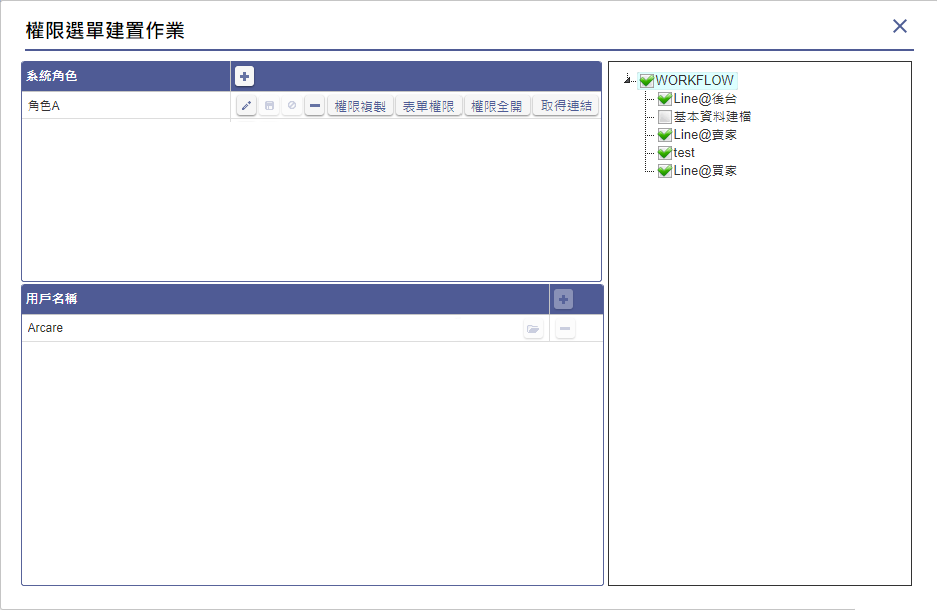
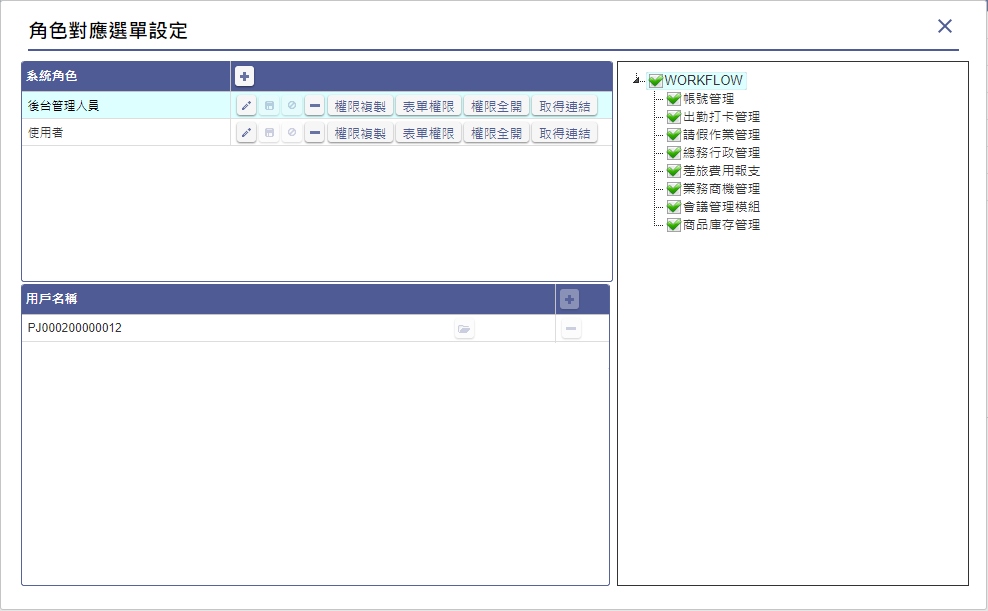
#9138 RTE_提供帳號自動生效  (SA文件)

Changed region(s): [[0.0, 0.0, 1.0, 1.0], [0.0309, 0.0311, 0.2166, 0.0623]]

diff --git a/8.10.2/UPDATE/ITEM_14/RTE/README.md b/8.10.2/UPDATE/ITEM_14/RTE/README.md
@@ -18,12 +18,12 @@
   ![作業流程]
 
 * 10月底修改，先異動下列畫面及規格
-  * 異動介面.選單權限建置作業
+  * 異動介面.角色對應選單設定
     * 新增按鈕.取得連結，開啟介面.取得連結
     * 異動按鈕.刪除，刪除角色時，須依 **系統+組織+角色** 將對應的 [取得連結][link_getRoleURL] 資料一併刪除
-    * 規格文件，請看: [選單權限建置作業][link_RoleOfPeopleSet]
+    * 規格文件，請看: [角色對應選單設定][link_RoleOfPeopleSet]
   * 新增介面.取得連結
-    * 由介面.[選單權限建置作業][link_RoleOfPeopleSet]，按鈕.取得連結，開啟本單
+    * 由介面.[角色對應選單設定][link_RoleOfPeopleSet]，按鈕.取得連結，開啟本單
     * 規格文件，請看: [取得連結][link_getRoleURL]
   * 異動介面.企業資料
     * 增加欄位.郵件驗證碼等待時間，預設: **300**秒，最小輸入值 **60**秒
@@ -36,11 +36,11 @@
       * 存在參數唯一號 且 連結生效 ，由系統自動建立申請帳號的資訊並生效
         * 預設給該帳號，參數唯一號指定的系統、組織，及角色權限
       * 不存在參數唯一號 或 (存在參數唯一號 且 連結失效)，僅建立申請帳號資訊，但帳號不生效
-    * 完整規格文件，請看 [帳號申請][link_applyaccount]
+    * 規格文件，請看 [帳號申請][link_applyaccount]
   * 異動介面.RTE登入畫面
     * 突顯申請新帳號的樣式 
     * 當瀏覽器的連結網址存在帳號生效參數設定的唯一號，即使Site系統服務介面.**其他參數**的欄位.**開放帳號申請**未勾選，畫面仍顯示**申請新帳號**的連結
-    * 完成整規格文件，請看[RTE登入畫面][link_login]
+    * 規格文件，請看[RTE登入畫面][link_login]
   * 異動介面.權限維護作業
     * 異動按鈕.刪除，刪除權限時，須依 **系統+組織+角色** 將對應的 [取得連結][link_getRoleURL] 資料一併刪除    
     * 異動按鈕.生效，權限生效時，須依 **系統+組織+角色** 將對應的 [取得連結][link_getRoleURL] 資料進行連結生效
@@ -55,7 +55,7 @@ ___
     * 在開放帳號申請設定中，增加下列欄位
       * 欄位.到期通知天數，預設帳號的系統使用期限到期前的第n天要通知使用者
       * 欄位.逾期可使用天數，預設帳號的系統使用期限到期後，仍可使用的天數
-    * 完整規格文件，請看: [其他參數][link_parameterothersetting]
+    * 規格文件，請看: [其他參數][link_parameterothersetting]
   * 新增介面.帳號生效參數查詢
     * 由Site系統服務的選單開啟
     * 可編修及瀏覽權限的角色: 企業管理員/系統管理員
@@ -63,7 +63,7 @@ ___
   * 新增介面.帳號生效參數設定
     * 由介面.帳號生效參數查詢，執行按鈕.新增，開啟本單
     * 可編修及瀏覽權限的角色: 企業管理員/系統管理員
-    * 完整規格文件，請看: [帳號生效參數設定][link_accounteffectparamsetting]      
+    * 規格文件，請看: [帳號生效參數設定][link_accounteffectparamsetting]      
   * 異動介面.帳號申請
     * 當瀏覽器的連結網址存在帳號生效參數設定的唯一號，預設帶入企業代號，並跳過介面.**請輸入企業名稱**
     * 增加發送Mail有效性驗證碼，由使用者回填驗證碼；Mail驗證碼要有效期，預設: 1分鐘，1分鐘後未回填，使用者須重新申請發送驗證碼
@@ -73,7 +73,7 @@ ___
         * 當有效期限=到期日，預設 帳號使用系統的**使用效期**為 **到期日**
         * 當有效期限=天數，預設 帳號使用該系統的**使用效期**為 **系統日期+天數**
       * 不存在參數唯一號 或 (存在參數唯一號 且 帳號生效方式=人工)，僅建立申請帳號資訊，但帳號不生效
-    * 完整規格文件，請看 [帳號申請][link_applyaccount]
+    * 規格文件，請看 [帳號申請][link_applyaccount]
   * 異動介面.帳號清單
     * 按鈕.生效，判斷若申請帳號是使用介面.**帳號生效參數設定**的連結URL建立的，則生效時，增加下列寫入資訊
         * 預設給該帳號，參數唯一號指定的系統、到期通知天數、逾期可使用天數、組織，及角色權限
@@ -83,7 +83,7 @@ ___
       * 欄位.使用效期，指定該帳號對應系統的有效期限
       * 欄位.到期通知天數，預帶介面.**其他參數**的**到期通知天數**
       * 欄位.逾期可使用天數，預帶介面.**其他參數**的**逾期可使用天數**
-    * 完整規格文件，請看 [帳號清單][link_accountindex]
+    * 規格文件，請看 [帳號清單][link_accountindex]
   * 異動介面.系統_使用者設定
     * 分頁: 依系統指定、依帳號指定，增加下列欄位
       * 欄位.使用效期，可指定該帳號對應系統的有效期限
@@ -99,7 +99,7 @@ ___
   * 新增介面.系統申請核准設定
     * 由介面.系統_使用系統申請查詢，執行按鈕.核准，開啟本單
     * 可編修及瀏覽權限的角色: 企業管理員/系統管理員
-    * 完整規格文件，請看: [系統申請核准設定][link_systemapplicationapproval]
+    * 規格文件，請看: [系統申請核准設定][link_systemapplicationapproval]
   * 異動介面.系統管理
     * 異動按鈕.刪除系統，刪除系統時，須依 **系統** 將對應的 [取得連結][link_getRoleURL] 資料一併刪除
     * 異動按鈕.刪除組織，刪除組織時，須依 **系統+組織** 將對應的 [取得連結][link_getRoleURL] 資料一併刪除
@@ -117,6 +117,11 @@ ___
       * 檢查帳號下各系統的 **使用效期** 大於 **今天的日期** 且 **已超過逾期可使用天數**，發送系統使用效期已到期通知至帳號的郵件信箱
     
 * 系統(System)
+  * 異動介面.RTE登入畫面
+    * 當瀏覽器的連結網址存在帳號生效參數設定的唯一號，帳號登入後，增加下列判斷
+      * 該帳號與參數唯一號的企業不同，提示訊息: 帳號不屬於URL對應的企業
+      * 該帳號與參數唯一號的企業相同，檢查參數設定的系統、組織、角色 ，不存在的，新增至該帳號的角色權限中
+    * 完成整規格文件，請看[RTE登入畫面][link_login]
   * 異動介面.RTE首頁
     * 切換系統分公司的清單，增加 帳號對應系統的使用效期，已過期的系統，不顯示在清單上
     * 切換系統時，增加判斷下列條件      

diff --git a/8.10.2/RTE/SYSTEM/APPLYACCOUNT/README.md b/8.10.2/RTE/SYSTEM/APPLYACCOUNT/README.md
@@ -86,7 +86,7 @@
         * 未輸入時顯示提示文字【*密碼】，有輸入後提示文字消失
         * 不可空白。
         * 長度8-20
-        * 須包含英文大寫、英文小寫、數字、特殊符號其中三種
+        * 須包含英文大寫、英文小寫、數字、特殊符號，其中三種類別
         * 不得包含帳號
         * 點擊按鈕.顯示會顯示使用者輸入的密碼。
     * 欄位.確認密碼
@@ -112,8 +112,8 @@
             * 帳號不可存在於資料庫(不可重複)
             * 使用者名稱不可空白
             * 密碼不可空白
-            * 密碼長度至少8碼
-            * 密碼須包含英文大寫、英文小寫、數字、特殊符號其中三種
+            * 密碼長度至少 8-20 碼
+            * 密碼須包含英文大寫、英文小寫、數字、特殊符號，其中三種類別
             * 密碼不得包含帳號
             * 確認密碼不可空白
             * 確認密碼須和密碼欄位相同
@@ -126,7 +126,22 @@
         * 通過驗證，判斷瀏覽器的連結網址是否存在帳號生效參數設定的唯一號
             * 存在參數唯一號 且 連結生效 ，由系統自動建立申請帳號的資訊並生效
                 * 預設給該帳號，參數唯一號指定的系統、組織，及角色權限
+                * 帳號生效完成後，發送給該帳號生效通知信 (如下圖)
+
+                    ![申請帳號畫面3_2]
+                
+                * 帳號生效完成後，發送給該系統管理人員，帳號生效通知信 (如下圖)
+                    
+                    ![申請帳號畫面3_3]  
+
             * 不存在參數唯一號 或 (存在參數唯一號 且 連結失效)，僅建立申請帳號資訊，但帳號不生效
+                * 帳號申請資料儲存完成後，發送該帳號申請通知信 (如下圖)
+
+                    ![申請帳號畫面3_4]  
+
+                * 帳號申請資料儲存完成後，發送給該企業管理員 或 系統管理人員，帳號申請通知信
+                    * <ps>待補詳細規格</ps>
+
 
 
 ### <div id="action">作業流程</div>
@@ -157,6 +172,9 @@
 
 [申請帳號畫面3]:attachment/applyaccount_userinfo.png "申請帳號畫面_帳號申請"
 [申請帳號畫面3_1]:attachment/applyaccount_userinfo_errormsg.png "申請帳號畫面_帳號申請_錯誤顯示方式"
+[申請帳號畫面3_2]:attachment/applyaccount_mail_to_valid_success.png "申請帳號畫面_帳號生效成功通知"
+[申請帳號畫面3_3]:attachment/applyaccount_mail_to_valid_success_for_system.png "申請帳號畫面_帳號生效成功通知_系統管理員"
+[申請帳號畫面3_4]:attachment/applyaccount_mail_to_apply_success.png "申請帳號畫面_帳號申請成功通知"
 
 [輸入企業名稱點擊按鈕.下一步]:attachment/applyaccount_next_step.png "輸入企業名稱點擊按鈕.下一步"
 [申請帳號點擊按鈕.送出]:attachment/applyaccount_submit.png "申請帳號點擊按鈕.送出"

diff --git a/8.10.2/RTE/SITE/_sidebar.md b/8.10.2/RTE/SITE/_sidebar.md
@@ -15,7 +15,9 @@
 * [企業系統設定](enterprisesystem/README.md)
 * [帳號清單](accountindex/README.md)
 * [郵件伺服器](parametermailsetting/README.md)
-* [帳號生效參數設定](accounteffectparamsetting/README.md)
-* [帳號生效參數查詢](accounteffectparamquery/README.md)
-* [選單權限建置作業](RoleOfPeopleSet/README.md)
+* [角色對應選單設定](RoleOfPeopleSet/README.md)
 * [取得連結](getRoleURL/README.md)
+
+* 以下未施工
+    * [帳號生效參數設定](accounteffectparamsetting/README.md)
+    * [帳號生效參數查詢](accounteffectparamquery/README.md)

diff --git a/8.10.2/RTE/SITE/getRoleURL/README.md b/8.10.2/RTE/SITE/getRoleURL/README.md
@@ -18,6 +18,7 @@
     * 顯示 角色名稱
 * 欄位.連結URL
     * 本欄唯讀並除能    
+    * 當[組織權限維護作業]未生效，則本欄 不可複製，且執行 Ctrl+V 無效
     * 顯示 網址+參數唯一號。參考下列URL顯示範例:
             https://ide-2.arcare-robot.com/ArcareEng/login.jsp?_=A5CCBF73-A509-42D7-97B0-D6E02DB5363C
 * 按鈕.連結失效/連結生效 

diff --git a/8.10.2/RTE/SITE/RoleOfPeopleSet/_sidebar.md b/8.10.2/RTE/SITE/RoleOfPeopleSet/_sidebar.md
@@ -1,4 +1,4 @@
-# 選單權限建置作業
+# 角色對應選單設定
 * [上一頁](../README.md)
 * [畫面說明](README.md#view)
 * [欄位說明](README.md#object-desc)
